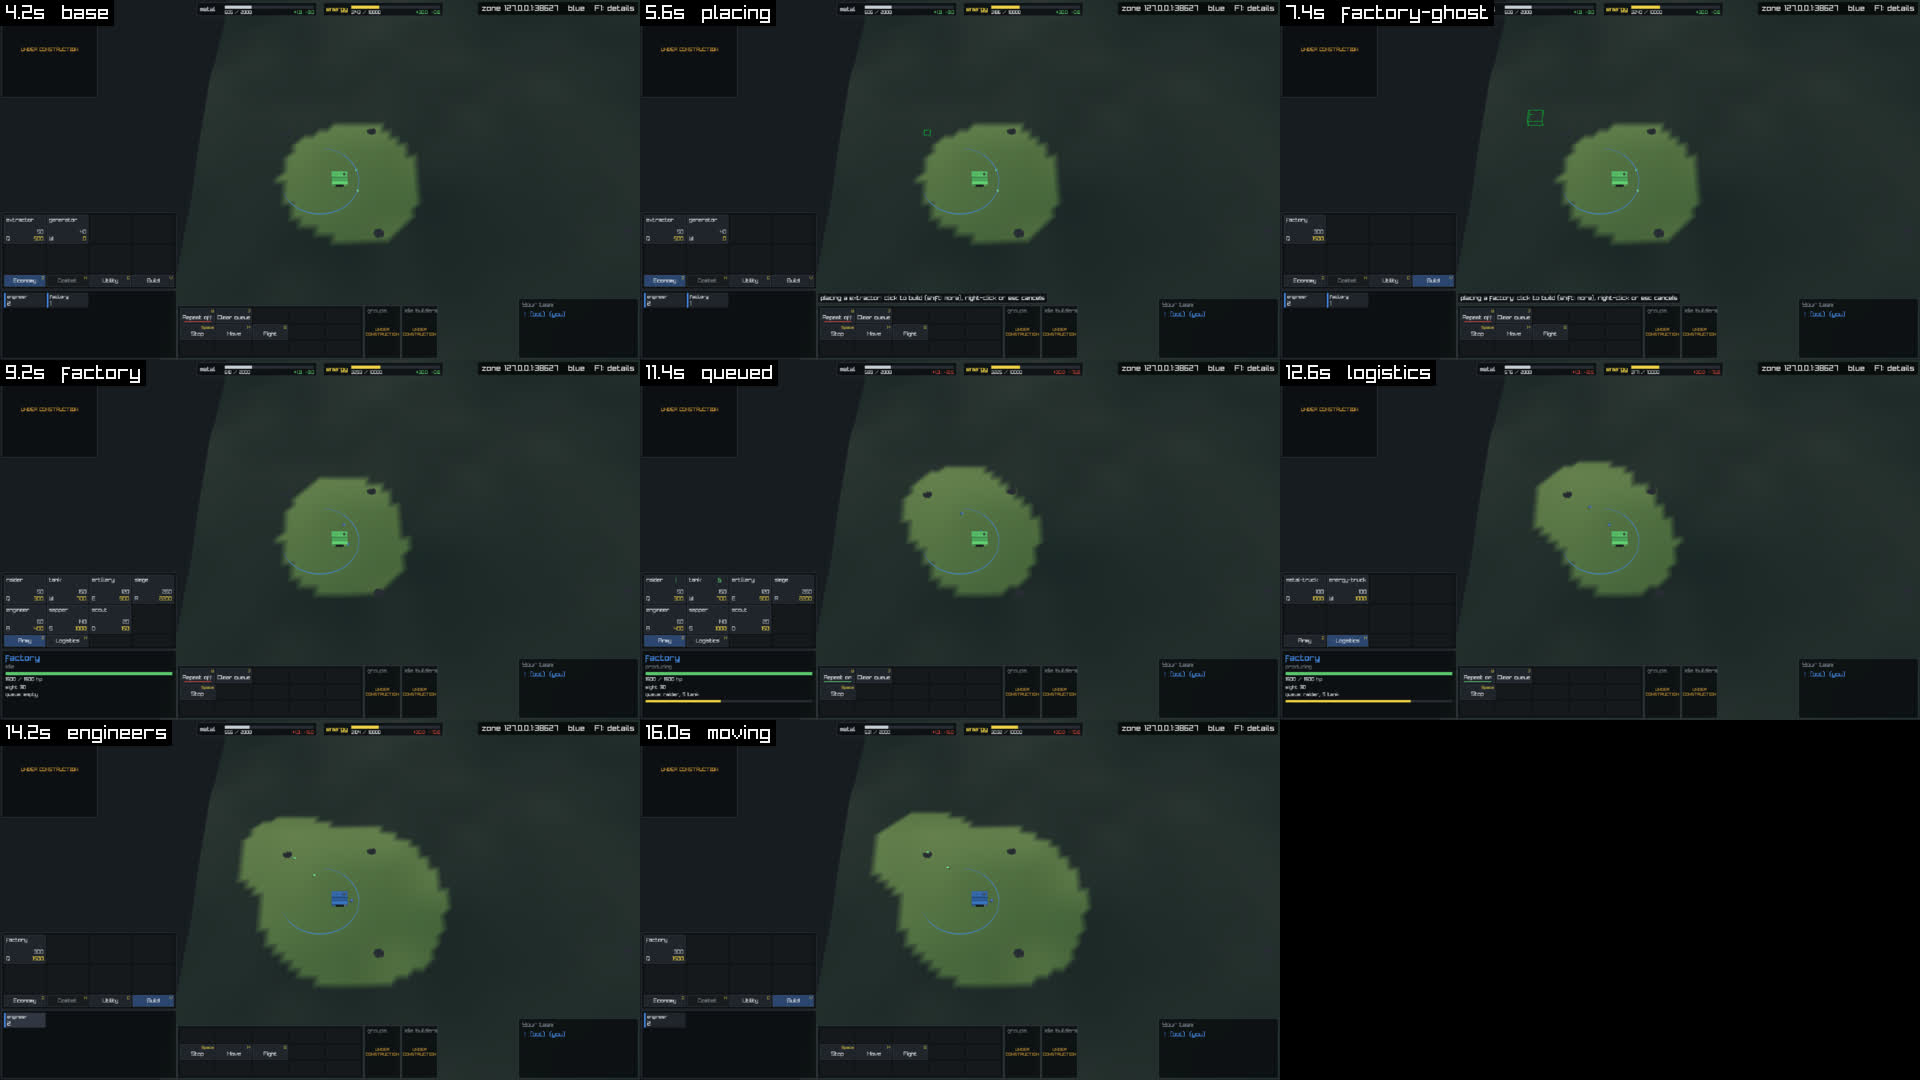
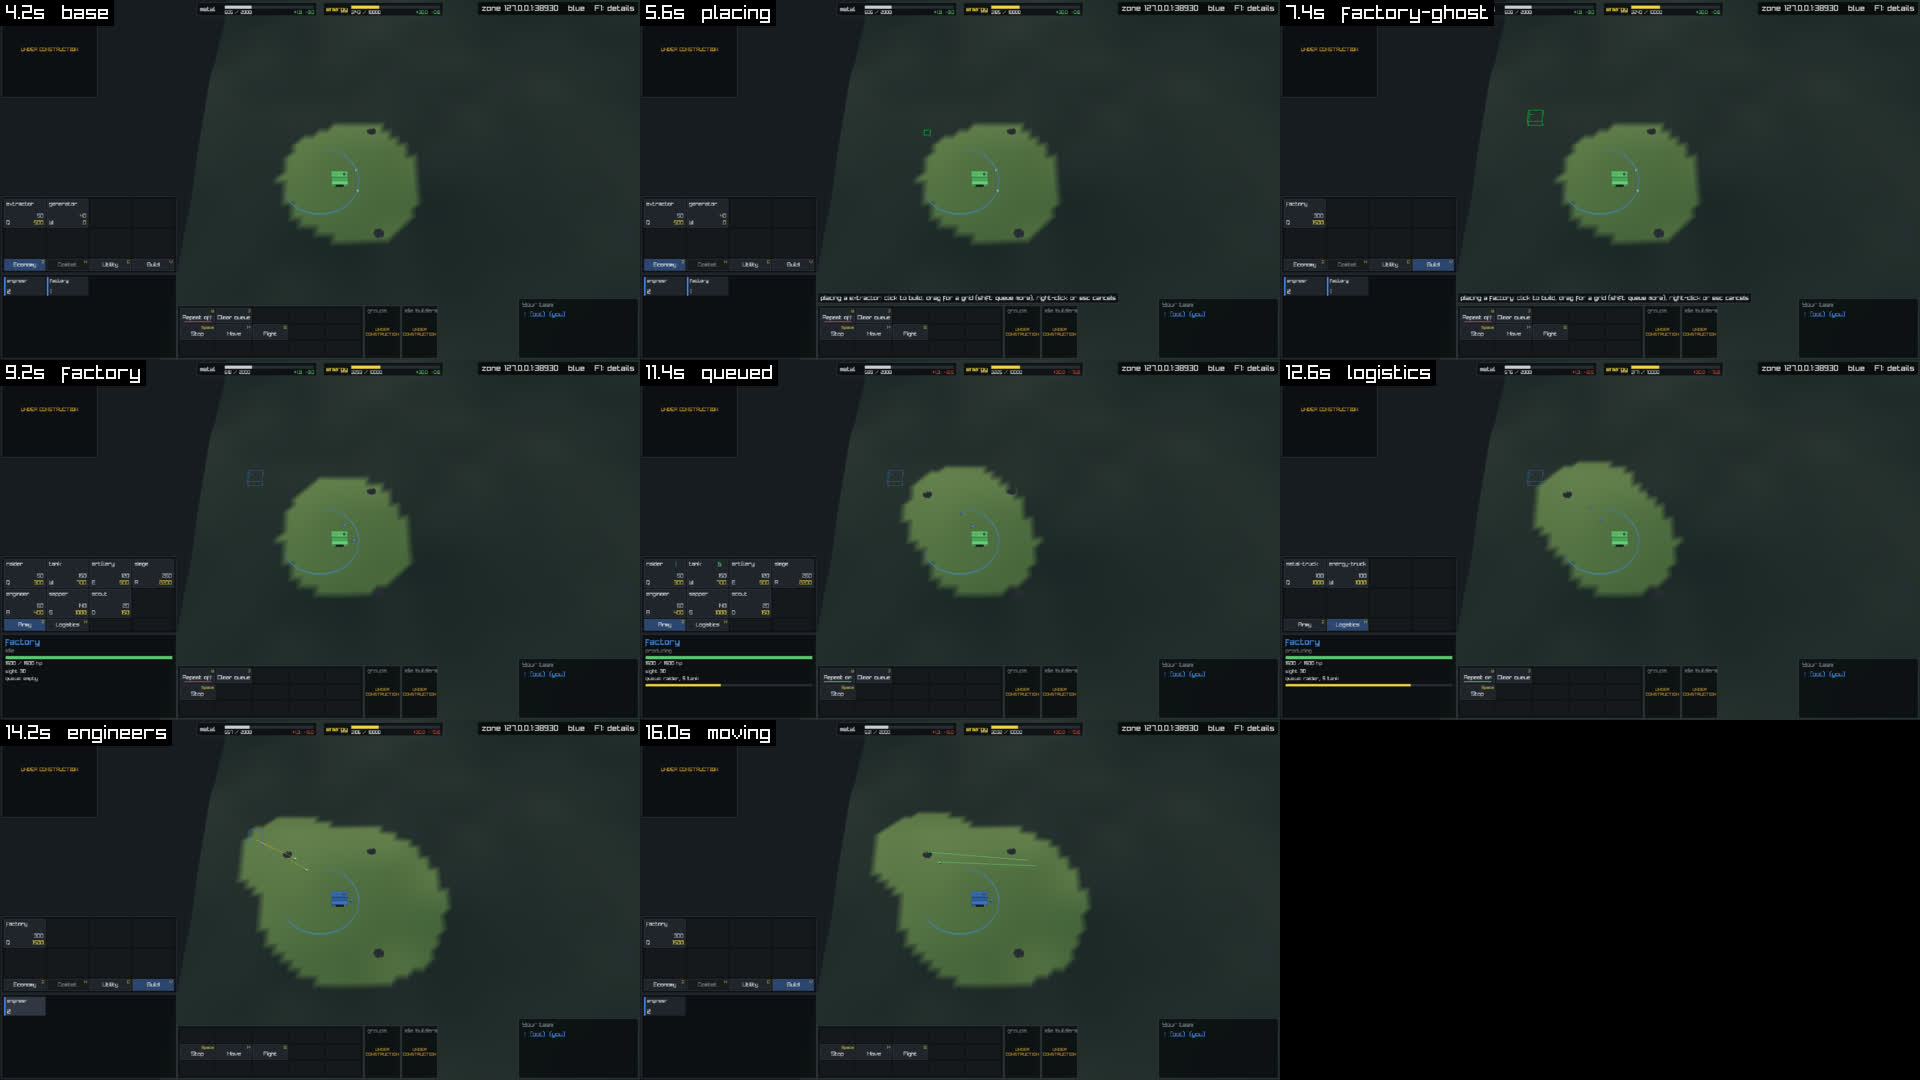
Spike 22f: orders on screen
For the units selected, a path through their orders (move green, fight
red, build yellow), a ring at each queued point; a ghost of every site
our builders are going to build; the full size of anything being built,
outlined. One unit selected: its info pane lists what it's doing (with
the site's progress) and what's queued, runs together, +N more past the
room. The info pane is 40 px taller for it (tile clicks in input
scripts move up to match).

Demo 32 (played): the commander's queued block, move and fight on screen.

Claude-Session: https://claude.ai/code/session_01U6H7EAB8VtJZHRquW7cdoH

diff --git a/src/controls.c b/src/controls.c
@@ -66,7 +66,7 @@ static Layout layout(int w, int h)
 	float bw = 104.0f * s, bh = 72.0f * s, th = 30.0f * s;   // a build item; a tab's height
 	float left = 4.0f * s, bottom = (float)h - 4.0f * s;
 	float grid_w = 4.0f * bw + 3.0f * gap + 2.0f * pad;
-	L.info = (Rectangle){left, bottom - 170.0f * s, grid_w, 170.0f * s};
+	L.info = (Rectangle){left, bottom - 210.0f * s, grid_w, 210.0f * s};
 	L.build = (Rectangle){left, L.info.y - gap - (2.0f * bh + th + 2.0f * gap + 2.0f * pad), grid_w,
 	                      2.0f * bh + th + 2.0f * gap + 2.0f * pad};
 	for (int k = 0; k < BUILD_ITEMS; k++)
@@ -476,8 +476,57 @@ ptrdiff_t controls_input(Controls *c, const Input *in, const Sim *sim, const Vie
 
 // ---------------------------------------------------------------- drawing
 
+static Color order_color(OrderKind kind)
+{
+	return kind == ORDER_BUILD ? (Color){240, 210, 70, 230} : kind == ORDER_ATTACK_MOVE ? (Color){235, 80, 60, 230}
+	                                                         : (Color){120, 255, 140, 230};
+}
+
+static void ghost(const Sim *sim, UnitType type, float x, float z, Color color)
+{
+	const UnitDef *def = &unit_defs[type];
+	DrawCubeWires((Vector3){x, terrain_height(&sim->terrain, x, z) + def->height * 0.5f, z}, def->radius * 2.0f, def->height,
+	              def->radius * 2.0f, color);
+}
+
+// What's planned: every site our builders are going to build (a ghost), the
+// full size of what's being built (its outline), and for the units selected,
+// the path through their orders, coloured by kind (move, fight, build).
+static void draw_plans(const Controls *c, const Sim *sim)
+{
+	const Units *u = own_units(c, sim);
+	const Terrain *t = &sim->terrain;
+	Color planned = ColorAlpha(render_player_color((int)c->me.v, c->player), 0.75f), outline = {230, 230, 220, 160};
+	for (ptrdiff_t i = 0; i < u->count; i++) {
+		if (unit_is_structure(u->type[i]) && u->progress[i] < 1.0f) ghost(sim, u->type[i], u->px[i], u->pz[i], outline);
+		if (!player_eq(u->owner[i], c->player) || !unit_is_builder(u->type[i])) continue;
+		if (u->order[i] == ORDER_BUILD && units_find(u, u->building[i]) < 0) ghost(sim, u->build_type[i], u->tx[i], u->tz[i], planned);
+		for (int32_t n = u->later_head[i]; n >= 0; n = u->later_next[n])
+			if (u->later_kind[n] == ORDER_BUILD) ghost(sim, u->later_type[n], u->later_tx[n], u->later_tz[n], planned);
+	}
+	for (ptrdiff_t k = 0; k < c->selection_count; k++) {
+		ptrdiff_t i = units_find(u, c->selection[k]);
+		if (i < 0 || unit_is_structure(u->type[i])) continue;
+		bool going = u->order[i] == ORDER_MOVE || u->order[i] == ORDER_ATTACK_MOVE || u->order[i] == ORDER_BUILD;
+		if (!going && u->later_len[i] == 0) continue;
+		Vector3 from = {u->px[i], u->py[i] + 0.4f, u->pz[i]};
+		if (going) {
+			Vector3 to = {u->tx[i], terrain_height(t, u->tx[i], u->tz[i]) + 0.4f, u->tz[i]};
+			DrawLine3D(from, to, order_color(u->order[i]));
+			from = to;
+		}
+		for (int32_t n = u->later_head[i]; n >= 0; n = u->later_next[n]) {
+			Vector3 to = {u->later_tx[n], terrain_height(t, u->later_tx[n], u->later_tz[n]) + 0.4f, u->later_tz[n]};
+			DrawLine3D(from, to, order_color(u->later_kind[n]));
+			DrawCircle3D(to, 1.0f, (Vector3){1, 0, 0}, 90.0f, order_color(u->later_kind[n]));
+			from = to;
+		}
+	}
+}
+
 void controls_draw_world(const Controls *c, const Sim *sim, const View *view, Vector2 mouse)
 {
+	draw_plans(c, sim);
 	if (c->landing_for >= 0) {
 		// Where an unpaired send may land: our strip, its edge traced on the ground.
 		const Terrain *t = &sim->terrain;
@@ -608,6 +657,45 @@ static const char *order_name(OrderKind o)
 	return o < ORDER_KIND_COUNT ? names[o] : "";
 }
 
+// What an order is, in a few words: "build generator", "move", "fight".
+static const char *order_words(OrderKind kind, UnitType type)
+{
+	return kind == ORDER_BUILD ? TextFormat("build %s", unit_defs[type].name) : kind == ORDER_MOVE ? "move"
+	     : kind == ORDER_ATTACK_MOVE ? "fight" : order_name(kind);
+}
+
+// One unit's orders: what it's doing, then what's queued, runs of the same
+// together ("then build generator x6"), as many lines as there's room for.
+static void draw_order_list(const Units *u, ptrdiff_t d, float x, float y, float bottom, float sc)
+{
+	if (u->order[d] == ORDER_IDLE && u->later_len[d] == 0) return;
+	float line = 15.0f * sc;
+	const char *now = order_words(u->order[d], u->build_type[d]);
+	ptrdiff_t site = u->order[d] == ORDER_BUILD ? units_find(u, u->building[d]) : -1;
+	if (site >= 0) now = TextFormat("%s (%.0f%%)", now, u->progress[site] * 100.0f);
+	text(TextFormat("now: %s", now), x, y, 13.0f * sc, TEXT);
+	y += line;
+	int shown = 0;
+	for (int32_t n = u->later_head[d]; n >= 0;) {
+		if (y + 2.0f * line > bottom && u->later_next[n] >= 0) { // room for one more line: say what's left
+			text(TextFormat("+%d more", u->later_len[d] - shown), x, y, 13.0f * sc, TEXT_DIM);
+			return;
+		}
+		int run = 1;
+		int32_t m = u->later_next[n];
+		while (m >= 0 && u->later_kind[m] == u->later_kind[n]
+		       && (u->later_kind[n] != ORDER_BUILD || u->later_type[m] == u->later_type[n])) {
+			run++;
+			m = u->later_next[m];
+		}
+		text(TextFormat("then: %s%s", order_words(u->later_kind[n], u->later_type[n]), run > 1 ? TextFormat(" x%d", run) : ""),
+		     x, y, 13.0f * sc, TEXT_DIM);
+		y += line;
+		shown += run;
+		n = m;
+	}
+}
+
 // The info pane: a tile per type selected, or one unit's details.
 static void draw_info(const Controls *c, const Sim *sim, const Layout *L, const SelectionSummary *s, Vector2 mouse,
                       bool live)
@@ -691,6 +779,7 @@ static void draw_info(const Controls *c, const Sim *sim, const Layout *L, const 
 		                                           : "warp home ready";
 		text(warp, x, y + 96.0f * sc, 13.0f * sc, u->recharge[d] > 0 ? TEXT_DIM : ENERGY);
 	}
+	draw_order_list(u, d, x, y + 118.0f * sc, L->info.y + L->info.height - 6.0f * sc, sc);
 	if (u->type[d] == UNIT_HEADQUARTERS) {
 		// Who's coming back, and when.
 		const Faction *fa = &sim->factions[c->me.v];
